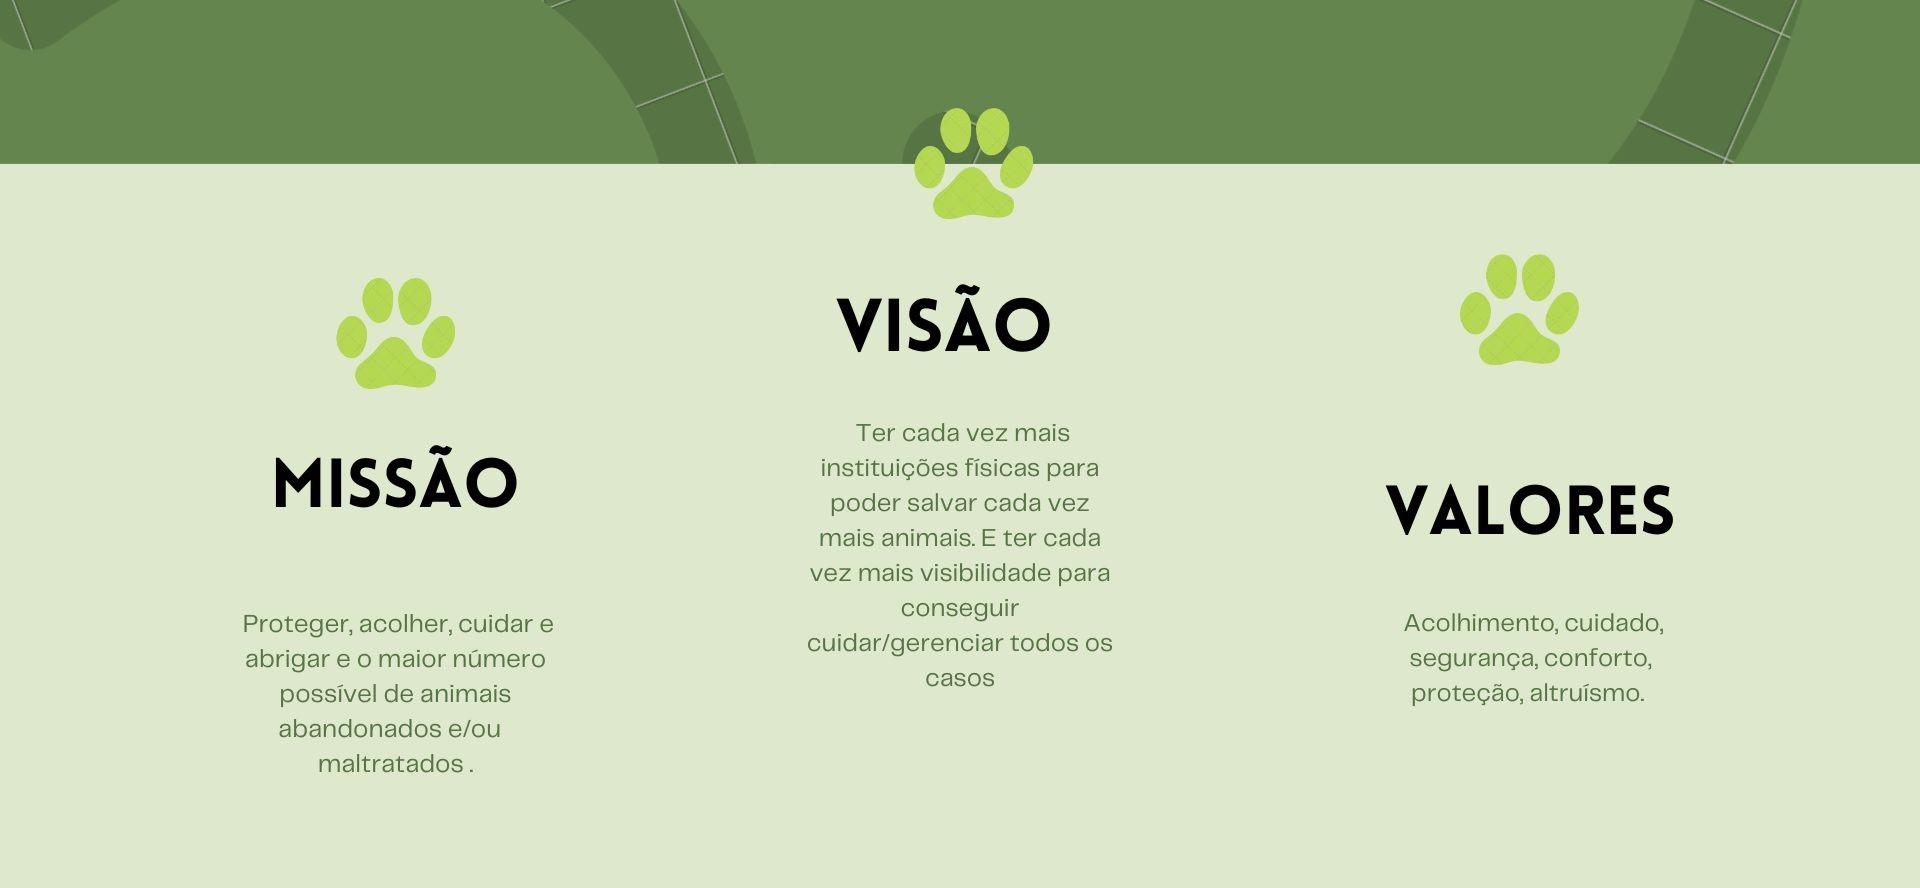
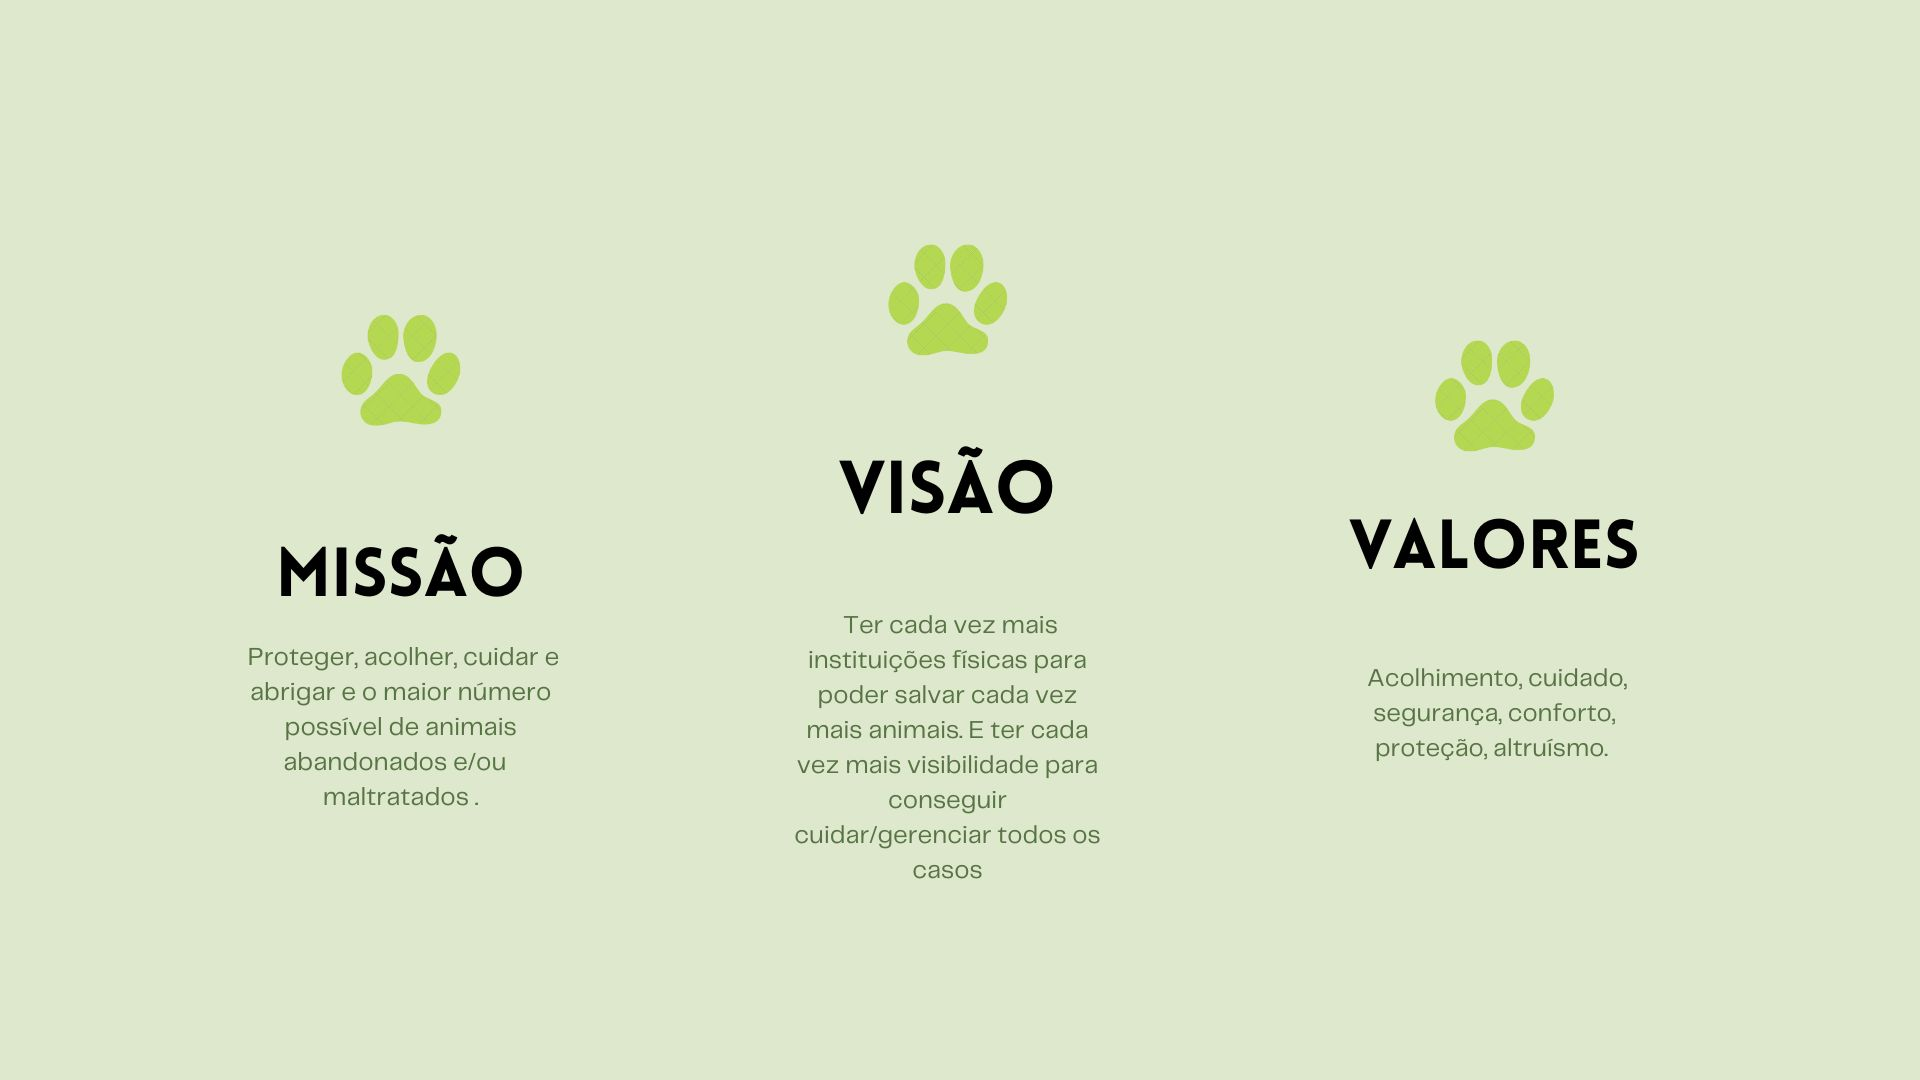
25/10

diff --git a/projeto/sobre/css/sobre.css b/projeto/sobre/css/sobre.css
@@ -194,15 +194,29 @@ section .title::after{
     justify-content: space-between;
 }
 
-.sobre .max-width .sobre-content{
+.sobre{
     background-image: url('../imgs/sobre.jpg');
-    background-position: center;
+    background-position: cover;
     background-repeat: no-repeat;
     background-size: 100% 100%;
+    height: 500px;
+
+}
+.comeco{
+    background-image: url('../imgs/comeco.jpg');
+    background-position: cover;
+    background-repeat: no-repeat;
+    background-size: 100% 100%;
+    height: 600px;
+    color:#fffefef5;
 
 }
 
-
+.comeco .comeco-content{
+    width: 35%;
+    margin-left: 60%;
+  
+}
 .sobre .sobre-content .left{
     width: 45%;
 }

diff --git a/projeto/sobre/js/script.js b/projeto/sobre/js/script.js
@@ -15,17 +15,7 @@ $(document).ready(function(){
          $('html').animate({scrollTop: 0});
      });
 
-     var typed = new Typed(".typing", {
-         strings:["Daiane", "Yasmin", "Winicius"],
-         typeSpeed:100,
-         backSpeed:60,
-         loop:true
-     });
-
-    $('.menu-btn').click(function(){
-        $('.navbar .menu').toggleClass("active");
-        $('.menu-btn i').toggleClass("active");
-    });
+   
     $('.carousel').owlCarousel({
         margin:20,
         loop:true,

diff --git a/projeto/sobre/sobre.php b/projeto/sobre/sobre.php
@@ -136,13 +136,22 @@ body{
         </div>
     </section>
     <!--sessão sobre-->
+    <section class="comeco" id="inicio">
+        <div class="max-width">
+        <h2>Como começou</h2><br>
+            <div class="comeco-content">
+            <br><br>
+        <p>
+        Em junho de 2022 nascia a nossa ONG, ainda sem muita ideia de onde chegaria, <br>nem de quantos animais teria a oportunidade de salvar, <br>apenas com um – e mais forte – ideal: o de lutar incansavelmente pelos que pouco podiam fazer para mudar seus tristes destinos de abandono, maus tratos e crueldade...
+               
+</p>
+            </div>
+        </div>
+    </section>
     <section class="sobre" id="sobre">
     
         <div class="max-width">
-            <div class="sobre-content">
-              
-          
-                </div>
+           
             </div>
         </div>
     </section>
@@ -151,7 +160,6 @@ body{
      <!--sessão equipe-->
      <section class="equipe" id="equipe">
         <div class="max-width">
-            <h2 class="title">Desenvolvedores</h2>
          <div class="carousel owl-carousel ">
                <div class="card">
                    <div class="box">
@@ -176,7 +184,7 @@ body{
                 </div>
         </div>
 
-
+</section>
 
     <!--sessão  footer-->
     <footer>
@@ -189,7 +197,7 @@ body{
     <script type="module" src="https://unpkg.com/ionicons@5.5.2/dist/ionicons/ionicons.esm.js"></script>
     <script nomodule src="https://unpkg.com/ionicons@5.5.2/dist/ionicons/ionicons.js"></script>
     <script src="https://code.jquery.com/jquery-3.6.0.min.js"></script>
-    <script src="js/script.sobre.js"></script>
+    <script src="js/sobre.js"></script>
     <script src="https://cdnjs.cloudflare.com/ajax/libs/waypoints/4.0.1/jquery.waypoints.min.js"></script>
     <script src="https://cdnjs.cloudflare.com/ajax/libs/OwlCarousel2/2.3.4/owl.carousel.min.js"></script>
     <script src="https://cdnjs.cloudflare.com/ajax/libs/typed.js/2.0.12/typed.min.js"></script>
